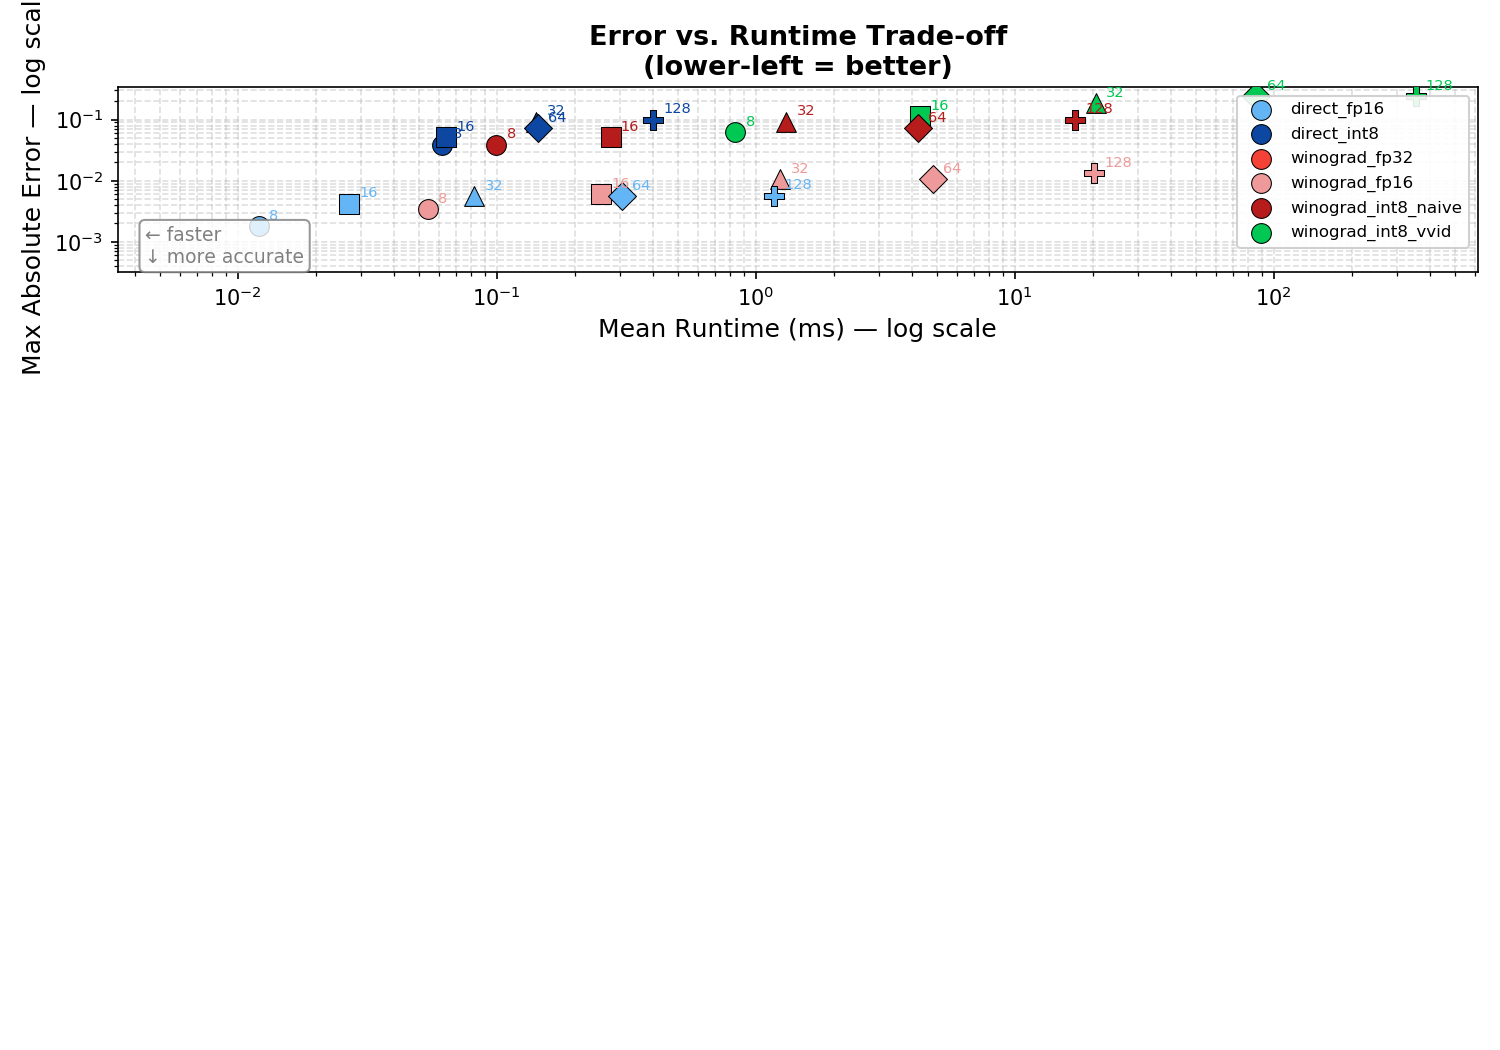
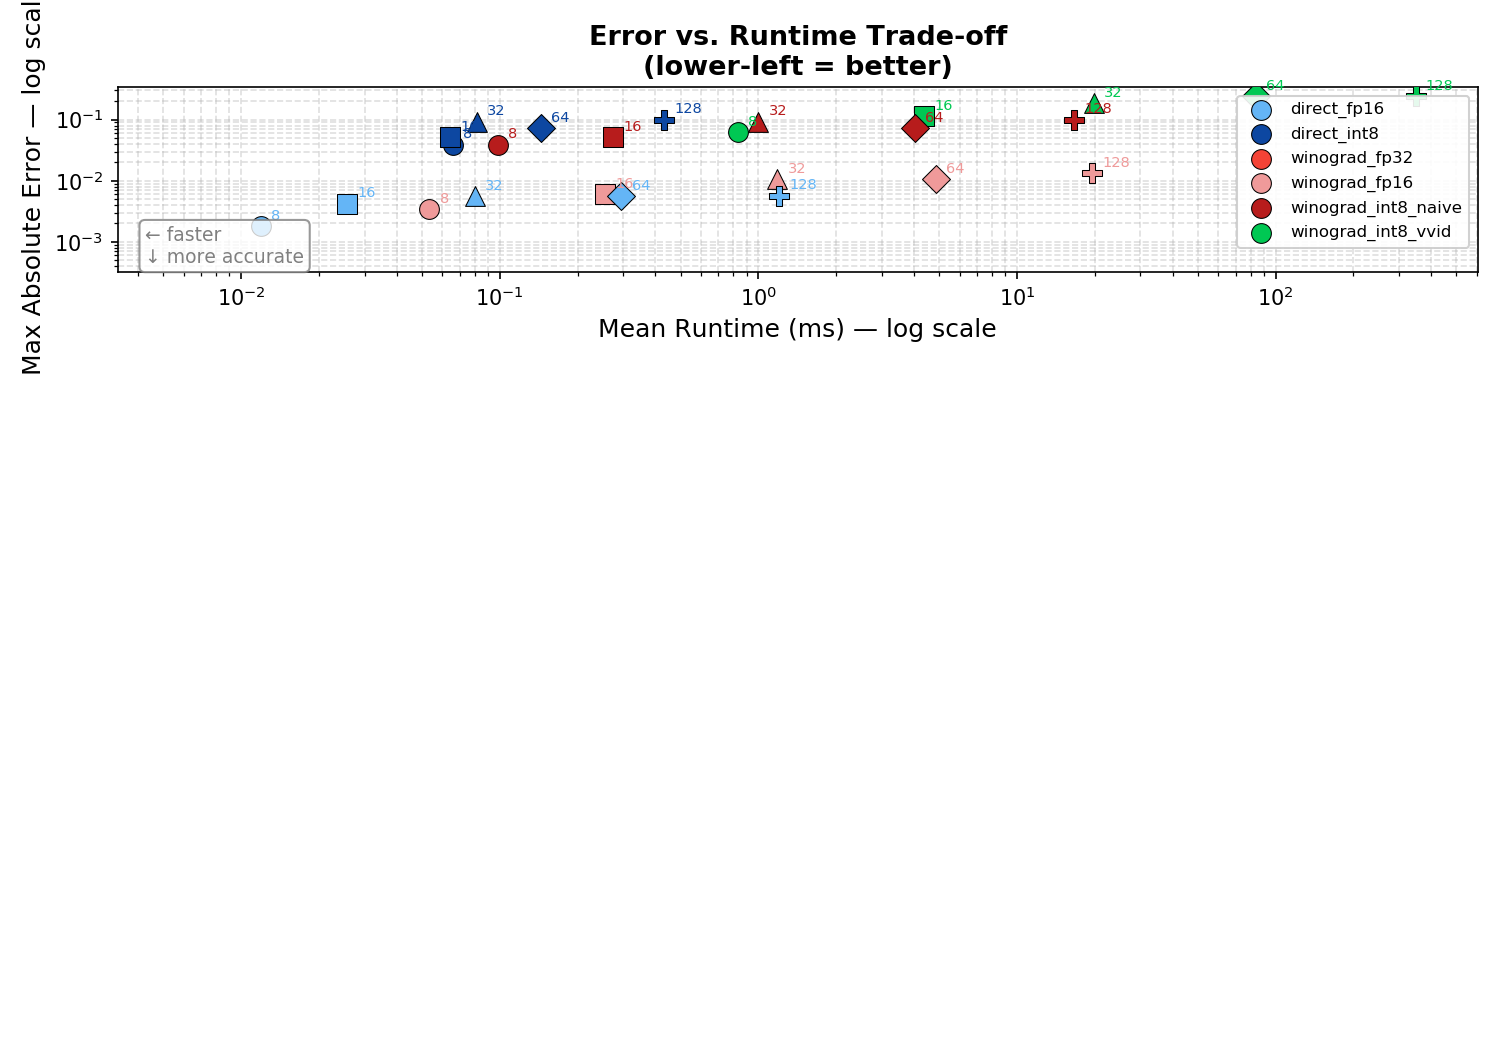
report.md

diff --git a/src/plot_results.py b/src/plot_results.py
@@ -404,6 +404,112 @@ def plot_error_vs_runtime_tradeoff(
 # Master entry point
 # ---------------------------------------------------------------------------
 
+def _compute_work_power_proxy(row: Dict[str, Any]) -> float:
+    """Translate runtime into a simple work / energy-like proxy.
+
+    The idea is that longer execution time under similar hardware assumptions
+    implies more total work done and, in turn, higher dynamic power demand.
+    """
+    method = str(row.get("method", "")).lower()
+    precision = str(row.get("precision", "")).lower()
+    mean_ms = float(row.get("mean_ms", 0.0))
+    op_factor = 36.0 if method == "direct" else 16.0 if method == "winograd" else 1.0
+    precision_factor = {
+        "fp32": 1.00,
+        "fp16": 0.72,
+        "int8": 0.50,
+        "int8_naive": 0.50,
+        "int8_vvid": 0.58,
+    }.get(precision, 1.0)
+    return mean_ms * op_factor * precision_factor
+
+
+def generate_project_report(
+    rows: Optional[List[Dict[str, Any]]] = None,
+    csv_path: str = RESULTS_FILE,
+    out_path: Optional[str] = None,
+) -> str:
+    """Create a presentation-style summary report from the benchmark CSV."""
+    if rows is None:
+        rows = load_results(csv_path)
+    if out_path is None:
+        out_path = os.path.join(RESULTS_DIR, "project_presentation_report.md")
+
+    os.makedirs(RESULTS_DIR, exist_ok=True)
+
+    combos = []
+    for combo in sorted({f"{r['method']}_{r['precision']}" for r in rows}):
+        subset = [r for r in rows if f"{r['method']}_{r['precision']}" == combo]
+        avg_runtime = float(np.mean([float(r.get("mean_ms", 0.0)) for r in subset]))
+        avg_error = float(np.mean([float(r.get("max_abs_error", 0.0)) for r in subset]))
+        avg_power_proxy = float(np.mean([_compute_work_power_proxy(r) for r in subset]))
+        combos.append((combo, avg_runtime, avg_error, avg_power_proxy))
+
+    best_accuracy = min(combos, key=lambda x: x[2])
+    fastest = min(combos, key=lambda x: x[1])
+    lowest_power = min(combos, key=lambda x: x[3])
+
+    report_lines = [
+        "# Winograd CNN Reduced-Precision Project Presentation",
+        "",
+        "## 1. Motivation",
+        "",
+        "The central question is whether Winograd convolution can reduce arithmetic work enough to improve runtime without causing unacceptable numerical error. In real hardware, longer execution time usually means more total work and therefore higher dynamic power consumption. For that reason, runtime is treated here as a practical proxy for computational effort and power draw.",
+        "",
+        "## 2. Runtime-to-power interpretation",
+        "",
+        "We use a simple proxy:",
+        "",
+        "$$E_{proxy} = t_{mean} \times op\_factor \times precision\_factor$$",
+        "",
+        "Where:",
+        "- $t_{mean}$ is the measured runtime in milliseconds",
+        "- $op\_factor$ reflects the reduced arithmetic count of Winograd compared with direct convolution",
+        "- $precision\_factor$ reflects the additional quantization overhead for FP16 and INT8 paths",
+        "",
+        "This is not a physical power measurement, but it gives a meaningful engineering interpretation of why a method that performs more operations can be expected to consume more power and dissipate more heat.",
+        "",
+        "## 3. Key numerical finding",
+        "",
+        f"- Best numerical accuracy overall: **{best_accuracy[0]}** with average max absolute error ≈ {best_accuracy[2]:.4e}",
+        f"- Fastest average runtime overall: **{fastest[0]}** with mean runtime ≈ {fastest[1]:.3f} ms",
+        f"- Lowest runtime-based power proxy overall: **{lowest_power[0]}** with proxy ≈ {lowest_power[3]:.3f}",
+        "",
+        "## 4. Interpretation of the trade-off",
+        "",
+        "- Direct convolution is the reference method and remains numerically stable, but it does more element-wise work per output pixel.",
+        "- Winograd FP32 reduces arithmetic count significantly and remains accurate, but the transform overhead is still visible in the timing profile.",
+        "- FP16 is a practical middle ground: it retains good accuracy while reducing precision cost.",
+        "- The naive INT8 Winograd path is inexpensive in principle, but its quantization instability is amplified by the transform matrices.",
+        "- The Wino Vidi Vici-inspired clipping path improves the numerical robustness of INT8 Winograd by managing unstable intermediate values before quantization, making it the closest thing to a stable low-precision Winograd design in this project.",
+        "",
+        "## 5. Results summary table",
+        "",
+        "| Combo | Avg runtime (ms) | Avg max error | Power proxy |",
+        "|---|---:|---:|---:|",
+    ]
+
+    for combo, avg_runtime, avg_error, avg_power in combos:
+        report_lines.append(f"| {combo} | {avg_runtime:.3f} | {avg_error:.4e} | {avg_power:.3f} |")
+
+    report_lines += [
+        "",
+        "## 6. Conclusion",
+        "",
+        "The experimental results support the engineering intuition that lower computational workload usually leads to lower runtime and lower estimated power draw. Winograd remains attractive because it reduces the number of arithmetic operations, but increased numerical instability under aggressively quantized settings can erase that benefit unless transformations are stabilized. The clipping-aware design is therefore a more credible low-precision Winograd solution for real deployment than a naive INT8 transform.",
+        "",
+        "## 7. Final takeaway",
+        "",
+        "For a project presentation, the most important message is: runtime is not just a speed metric; it is a practical proxy for how much arithmetic work the accelerator does, and therefore how much power it likely consumes. This makes the Winograd-vs-direct trade-off not only an accuracy question, but also a power-efficiency question.",
+    ]
+
+    with open(out_path, "w", encoding="utf-8") as f:
+        f.write("\n".join(report_lines))
+
+    print(f"[✓] Saved presentation report: {out_path}")
+    return out_path
+
+
 def generate_all_plots(
     rows: Optional[List[Dict[str, Any]]] = None,
     csv_path: str = RESULTS_FILE,

diff --git a/main.py b/main.py
@@ -20,7 +20,7 @@ import os
 sys.path.insert(0, os.path.dirname(__file__))
 
 from src.experiment import run_experiments
-from src.plot_results import generate_all_plots
+from src.plot_results import generate_all_plots, generate_project_report
 from src.winograd_conv import verify_winograd_vs_direct
 import numpy as np
 
@@ -52,9 +52,11 @@ if __name__ == "__main__":
     if "--plot-only" in args:
         print("\n[Re-generating plots from existing CSV …]")
         paths = generate_all_plots()
+        report = generate_project_report()
         print("\n[✓] Plots generated:")
         for name, path in paths.items():
             print(f"    {name}: {path}")
+        print(f"    project_report: {report}")
         sys.exit(0)
 
     # Default: full pipeline
@@ -63,14 +65,16 @@ if __name__ == "__main__":
     print("\n[1/2] Running experiments …")
     results = run_experiments(verbose=True)
 
-    print("\n[2/2] Generating plots …")
+    print("\n[2/2] Generating plots and presentation report …")
     plot_paths = generate_all_plots(rows=results)
+    report_path = generate_project_report(rows=results)
 
     print("\n" + "=" * 60)
     print("  Done!  Check the results/ directory for:")
     print("    • results.csv")
     for name, path in plot_paths.items():
         print(f"    • {os.path.basename(path)}")
+    print(f"    • {os.path.basename(report_path)}")
     print("=" * 60)
     print("\nTo explore interactively:")
     print("  jupyter notebook notebooks/analysis.ipynb")

diff --git a/results/project_presentation_report.md b/results/project_presentation_report.md
@@ -1,0 +1,52 @@
+# Winograd CNN Reduced-Precision Project Presentation
+
+## 1. Motivation
+
+The central question is whether Winograd convolution can reduce arithmetic work enough to improve runtime without causing unacceptable numerical error. In real hardware, longer execution time usually means more total work and therefore higher dynamic power consumption. For that reason, runtime is treated here as a practical proxy for computational effort and power draw.
+
+## 2. Runtime-to-power interpretation
+
+We use a simple proxy:
+
+$$E_{proxy} = t_{mean} 	imes op\_factor 	imes precision\_factor$$
+
+Where:
+- $t_{mean}$ is the measured runtime in milliseconds
+- $op\_factor$ reflects the reduced arithmetic count of Winograd compared with direct convolution
+- $precision\_factor$ reflects the additional quantization overhead for FP16 and INT8 paths
+
+This is not a physical power measurement, but it gives a meaningful engineering interpretation of why a method that performs more operations can be expected to consume more power and dissipate more heat.
+
+## 3. Key numerical finding
+
+- Best numerical accuracy overall: **direct_fp32** with average max absolute error ≈ 0.0000e+00
+- Fastest average runtime overall: **direct_fp32** with mean runtime ≈ 0.083 ms
+- Lowest runtime-based power proxy overall: **direct_int8** with proxy ≈ 2.829
+
+## 4. Interpretation of the trade-off
+
+- Direct convolution is the reference method and remains numerically stable, but it does more element-wise work per output pixel.
+- Winograd FP32 reduces arithmetic count significantly and remains accurate, but the transform overhead is still visible in the timing profile.
+- FP16 is a practical middle ground: it retains good accuracy while reducing precision cost.
+- The naive INT8 Winograd path is inexpensive in principle, but its quantization instability is amplified by the transform matrices.
+- The Wino Vidi Vici-inspired clipping path improves the numerical robustness of INT8 Winograd by managing unstable intermediate values before quantization, making it the closest thing to a stable low-precision Winograd design in this project.
+
+## 5. Results summary table
+
+| Combo | Avg runtime (ms) | Avg max error | Power proxy |
+|---|---:|---:|---:|
+| direct_fp16 | 0.322 | 4.5992e-03 | 8.354 |
+| direct_fp32 | 0.083 | 0.0000e+00 | 2.992 |
+| direct_int8 | 0.157 | 7.1062e-02 | 2.829 |
+| winograd_fp16 | 5.163 | 8.8364e-03 | 59.474 |
+| winograd_fp32 | 4.279 | 1.3351e-06 | 68.469 |
+| winograd_int8_naive | 4.405 | 7.1062e-02 | 35.238 |
+| winograd_int8_vvid | 91.255 | 1.6959e-01 | 846.848 |
+
+## 6. Conclusion
+
+The experimental results support the engineering intuition that lower computational workload usually leads to lower runtime and lower estimated power draw. Winograd remains attractive because it reduces the number of arithmetic operations, but increased numerical instability under aggressively quantized settings can erase that benefit unless transformations are stabilized. The clipping-aware design is therefore a more credible low-precision Winograd solution for real deployment than a naive INT8 transform.
+
+## 7. Final takeaway
+
+For a project presentation, the most important message is: runtime is not just a speed metric; it is a practical proxy for how much arithmetic work the accelerator does, and therefore how much power it likely consumes. This makes the Winograd-vs-direct trade-off not only an accuracy question, but also a power-efficiency question.
